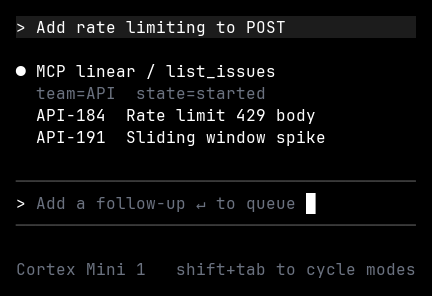
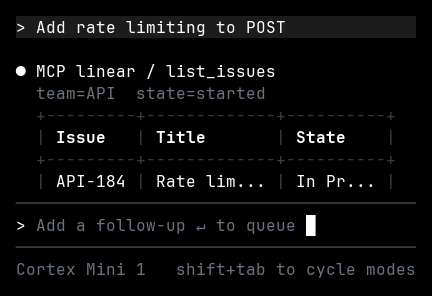
docs(media): capture auto-format scenes (table, fence, list, mixed, diff hunk, diff word)

diff --git a/docs/media/tui-lock/README.md b/docs/media/tui-lock/README.md
@@ -29,6 +29,14 @@ and `+N` diff additions, red / amber only on diagnostics, and the Thinking
 status is the muted gold `#C9A95C`. The footer is the model on the left and
 one shortcut hint on the right, all gray.
 
+Replies auto-format through the real `MarkdownRenderer`: markdown tables are
+the gray plus-ASCII grid (`+---+`, `|` — never Unicode box drawing), fenced
+code sits between two hairlines with its language tag, a dim line-number
+gutter and monochrome (bold-keyword) highlighting, nested bullets indent
+(`•` / `◦`), and task items render as `✓` / `○`. Edit tiles show unified
+hunks with a dim old/new gutter, white context, red `-`, green `+`, and
+word-level colour on a changed line.
+
 Splash copy in these frames is the lock line `Cortex CLI v1.0.0`. The shipped
 binary still reports the crate version.
 
@@ -95,6 +103,12 @@ binary still reports the crate version.
 | `delete.png` | Delete confirm radios |
 | `list.png` | List directory entries |
 | `fetch.png` | Fetch URL excerpt |
-| `mcp_call.png` | MCP tool call + table |
+| `mcp_call.png` | MCP tool call + issue list as a `+---+` plus-ASCII table |
 | `task.png` | Task running |
 | `edit.png` | Edit tile +diff |
+| `md_table.png` | Reply with a markdown table: gray `+---+` plus-ASCII grid, header + 3 rows |
+| `md_fence.png` | Reply with a fenced TypeScript block: `─ ts ─` hairline, line numbers, bold keywords, closing hairline |
+| `md_list.png` | Reply with a nested bullet list (`•` / `◦`) and a `✓` / `○` task list |
+| `md_mixed.png` | Heading + bullets + table + fence in one reply — the auto-format proof |
+| `diff_hunk.png` | Edit tile + unified hunk: dim gutter, white context, red `-`, green `+` |
+| `diff_word.png` | Edit tile, one changed line: only the mutated token is coloured |
